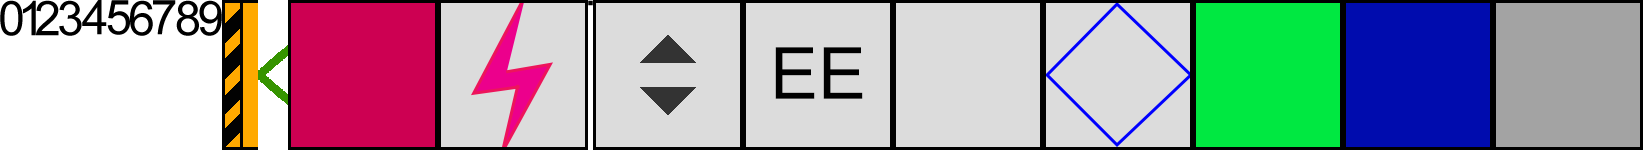
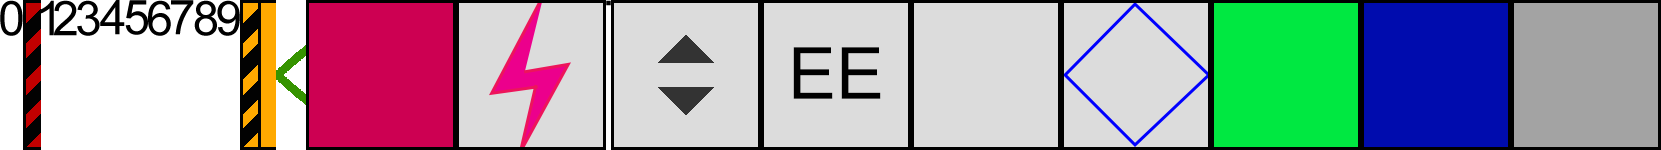
[BSS-19035] Show directionality sprite for 0,0,0 also for debugging
Subscribers: jenkins

JIRA Issues: BSS-19035

Differential Revision: https://phab.greyorange.com/D6534

diff --git a/client/src/utils/selectors/map-render-selectors.test.js b/client/src/utils/selectors/map-render-selectors.test.js
@@ -205,23 +205,32 @@ describe("getBarcodeDigitSpritesData", () => {
 
 describe("getDirectionalitySpritesNames", () => {
   const { getDirectionalitySpritesNames } = mapRenderSelectors;
-  test("should give [null, null, null, null] for sprite 0,0 in vanilla map which is normal", () => {
-    // 0,0 has only 0,0,0 or 1,1,1 neighbours so all names should be null
+  test("should give [\"000.png\", \"000.png\", \"111.png\", \"111.png\"] for sprite 0,0 in vanilla map which is normal", () => {
     var state = makeState(singleFloorVanilla, 1);
     expect(getDirectionalitySpritesNames(state, { tileId: "0,0" })).toEqual([
+      "000.png",
+      "000.png",
+      "111.png",
+      "111.png"
+    ]);
+  });
+  test("should give [null, null, null, null] for sprite 1,1 in vanilla map", () => {
+    // 1,1 has only 0,0,0 or 1,1,1 neighbours so all names should be null
+    var state = makeState(singleFloorVanilla, 1);
+    expect(getDirectionalitySpritesNames(state, { tileId: "1,1" })).toEqual([
       null,
       null,
       null,
       null
     ]);
   });
-  test("should give sprite name 110.png in top and bottom direction for 12,12", () => {
+  test("should give sprite name 110.png in all direction for 12,12", () => {
     var state = makeState(singleFloor, 1);
     expect(getDirectionalitySpritesNames(state, { tileId: "12,12" })).toEqual([
-      constants.DIRECTIONALITY_SPRITES_MAP[[1, 1, 0]],
-      null,
-      constants.DIRECTIONALITY_SPRITES_MAP[[1, 1, 0]],
-      null
+      "110.png",
+      "000.png",
+      "110.png",
+      "000.png"
     ]);
   });
   test("should have all direction names in case of 2,1", () => {
@@ -230,7 +239,7 @@ describe("getDirectionalitySpritesNames", () => {
       constants.DIRECTIONALITY_SPRITES_MAP[[1, 1, 1]],
       constants.DIRECTIONALITY_SPRITES_MAP[[1, 1, 1]],
       constants.DIRECTIONALITY_SPRITES_MAP[[1, 1, 0]],
-      null
+      constants.DIRECTIONALITY_SPRITES_MAP[[0, 0, 0]]
     ]);
   });
 });
@@ -288,17 +297,17 @@ describe("getDirectionalitySpriteCoordinateData", () => {
 
 describe("getDirectionalitySpritesData", () => {
   const { getDirectionalitySpritesData } = mapRenderSelectors;
-  test("should be an empty object for 0,0 in vanilla map since no sprites to be drawn for it", () => {
+  test("should be an empty object for 1,1 in vanilla map since no sprites to be drawn for it", () => {
     var state = makeState(singleFloorVanilla, 1);
-    var sprites = getDirectionalitySpritesData(state, { tileId: "0,0" });
+    var sprites = getDirectionalitySpritesData(state, { tileId: "1,1" });
     expect(sprites).toEqual({});
   });
-  describe("should be top left and right sprite for 1,2", () => {
+  describe("should be top left right bottom sprite for 1,2", () => {
     var state = makeState(singleFloor, 1);
     var sprites = getDirectionalitySpritesData(state, { tileId: "1,2" });
     expect(sprites).toHaveProperty("top");
     expect(sprites).toHaveProperty("right");
-    expect(sprites).not.toHaveProperty("bottom");
+    expect(sprites).toHaveProperty("bottom");
     expect(sprites).toHaveProperty("left");
     test("left one shouldn't have rotation", () => {
       ["name", "x", "y", "xScale", "yScale"].forEach(key =>
@@ -310,13 +319,13 @@ describe("getDirectionalitySpritesData", () => {
   describe("correct data for 12,12", () => {
     var state = makeState(singleFloor, 1);
     var sprites = getDirectionalitySpritesData(state, { tileId: "12,12" });
-    test("should have keys top and bottom only", () => {
+    test("should have all keys", () => {
       expect(sprites).toHaveProperty("top");
-      expect(sprites).not.toHaveProperty("right");
+      expect(sprites).toHaveProperty("right");
       expect(sprites).toHaveProperty("bottom");
-      expect(sprites).not.toHaveProperty("left");
+      expect(sprites).toHaveProperty("left");
     });
-    test("should have all names as well has the coordinate data", () => {
+    test("should have all names as well has the coordinate data for top, bottom", () => {
       ["top", "bottom"].forEach(dirSpriteKey => {
         expect(sprites).toHaveProperty(dirSpriteKey);
         ["name", "x", "y", "xScale", "yScale", "rotation"].forEach(key =>

diff --git a/client/src/components/Map/Sidebar/DirectionViewTooltip.js b/client/src/components/Map/Sidebar/DirectionViewTooltip.js
@@ -1,5 +1,6 @@
 import React from "react";
 import GenericTooltip from "../Forms/Util/GenericTooltip";
+import NoBarcodePng from "sprites/000.png";
 import NotAllowedPng from "sprites/100.png";
 import LiftDownAllowedPng from "sprites/110.png";
 import AllAllowed from "sprites/111.png";
@@ -11,6 +12,14 @@ export default () => {
         Marker meanings:
         <table>
           <tbody>
+            <tr>
+              <td>
+                <img style={imgStyle} src={NoBarcodePng} />
+              </td>
+              <td>
+                No barcode exists in that direction ([0,0,0] nb structure)
+              </td>
+            </tr>
             <tr>
               <td>
                 <img style={imgStyle} src={NotAllowedPng} />
@@ -39,8 +48,7 @@ export default () => {
         If no markers are drawn on a barcode, it means it has default neighbour
         structure
         <br />
-        (i.e. [1,1,1] and [0,0,0] edges). Not drawn just to reduce screen
-        clutter.
+        (i.e. [1,1,1] edges). Not drawn just to reduce screen clutter.
       </div>
     </GenericTooltip>
   );

diff --git a/client/src/utils/selectors/map-render-selectors.js b/client/src/utils/selectors/map-render-selectors.js
@@ -115,8 +115,8 @@ export const getDirectionalitySpritesNames = createSelector(
     const { neighbours } = barcode;
     // if all neighbours are either [1,1,1] or [0,0,0], no need to draw direciotnality sprites for this barcode
     // they won't really add any new formation, just clutter
-    const shouldNotDrawSprites = neighbours.every(
-      nb => _.isEqual(nb, [1, 1, 1]) || _.isEqual(nb, [0, 0, 0])
+    const shouldNotDrawSprites = neighbours.every(nb =>
+      _.isEqual(nb, [1, 1, 1])
     );
     if (shouldNotDrawSprites) return [null, null, null, null];
     return neighbours.map(nb => constants.DIRECTIONALITY_SPRITES_MAP[nb]);

diff --git a/client/src/constants.js b/client/src/constants.js
@@ -64,7 +64,7 @@ export const DIRECTIONALITY_SPRITES_MAP = {
   "1,0,0": "100.png", // not allowed edge
   "1,1,0": "110.png", // only lift down allowed edge
   "1,1,1": "111.png", // all allowed edge
-  "0,0,0": null // won't be drawing any sprite for this case
+  "0,0,0": "000.png" // won't be drawing any sprite for this case
 };
 
 // Constants for map charger_location
